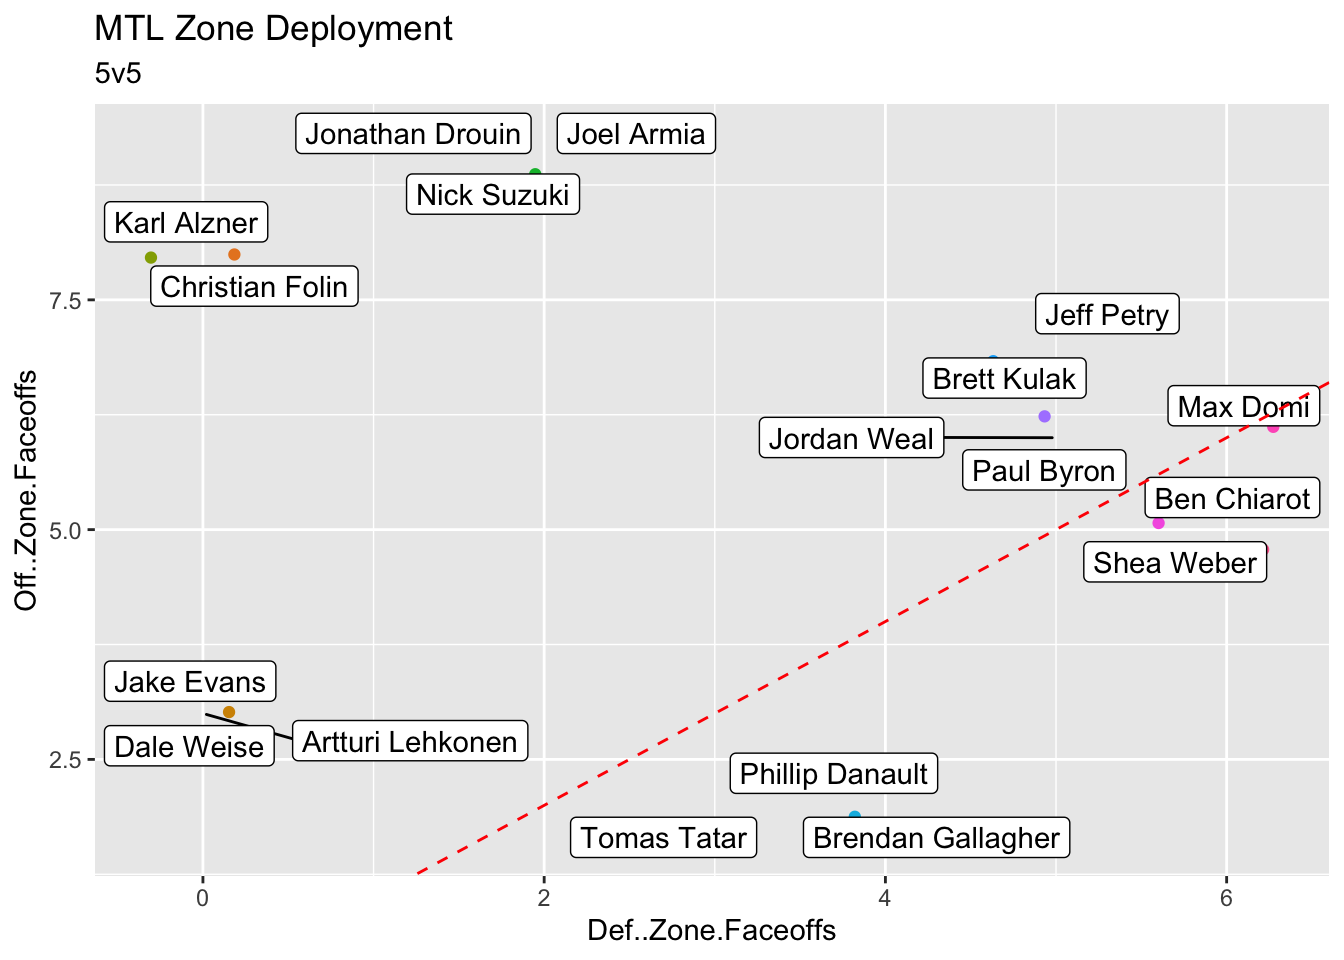
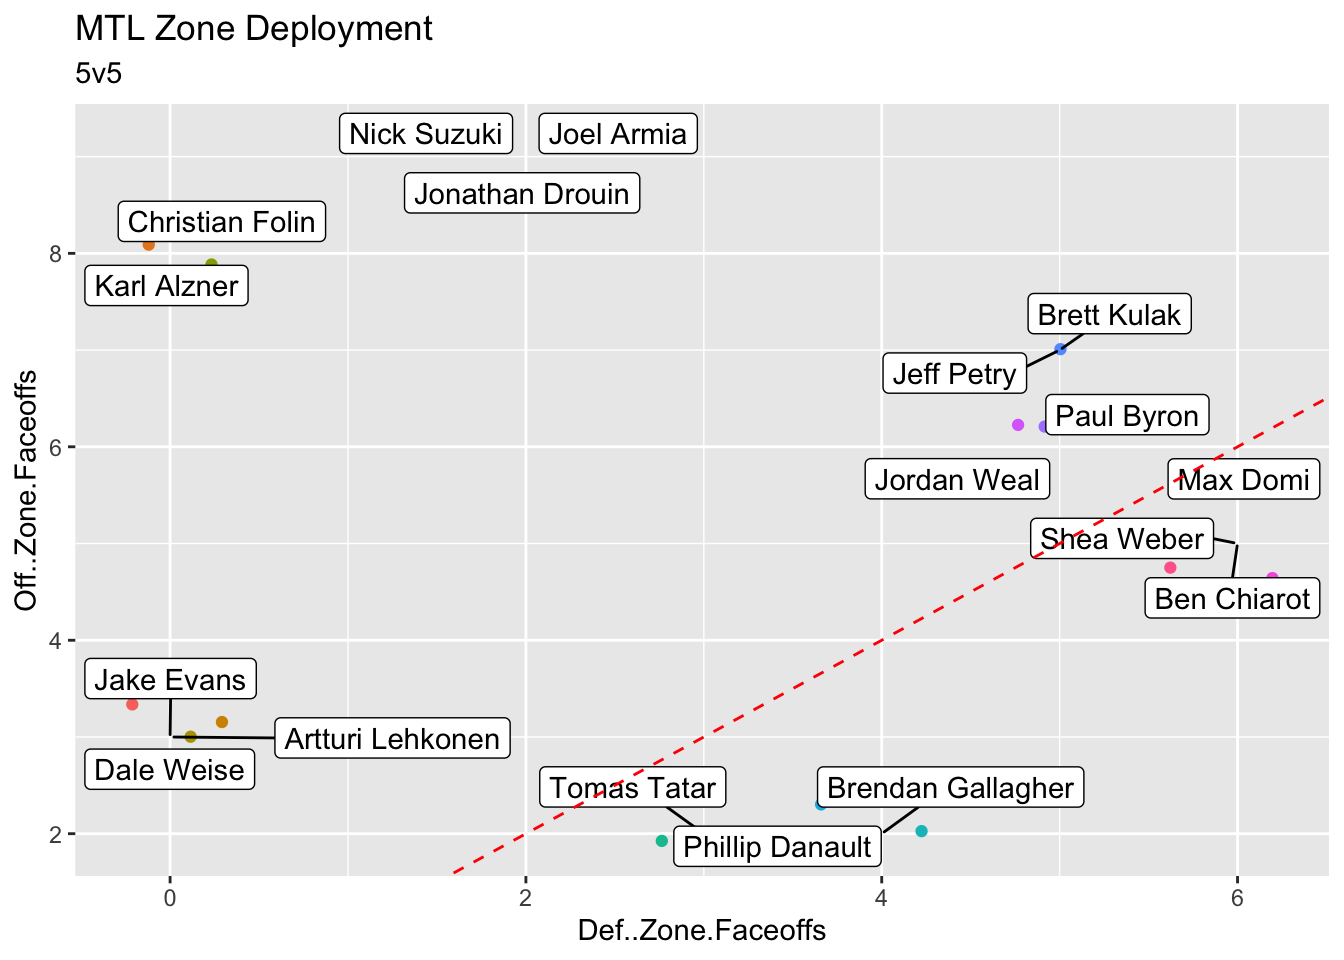
changed font type

diff --git a/post/2020-12-27-building-a-neural-network-with-tensorflow-and-keras.en.html b/post/2020-12-27-building-a-neural-network-with-tensorflow-and-keras.en.html
@@ -31,69 +31,115 @@ output: html_page
 <p>Here, a multi-label classification problem is shown, with the dataset provided by the UCI machine learning repository. This dataset in particular assigns an integer value indicating the quality of red wine, with each column as dependent variables (e.g., acidity, pH, etc.).</p>
 <p><strong>Step by step:</strong></p>
 <p>First we load the appropriate modules.</p>
+<blockquote>
 <p>import pandas as pd import numpy as np import tensorflow as tf from tensorflow.keras.models import Sequential from tensorflow.keras.layers import Dense from sklearn.model_selection import train_test_split from sklearn import preprocessing from sklearn.metrics import accuracy_score import matplotlib.pyplot as plt</p>
+</blockquote>
 <p>We load our red wine dataset and split the dataframe into its feature-set (i.e., the dependent variables) and our target labels.</p>
+<blockquote>
 <p>df = pd.read_csv('winequality-red.csv', sep=';') y = df.select_dtypes('int').values X = df.select_dtypes(exclude='int').values</p>
+</blockquote>
 <p>It is important to preprocess our features. This is especially important in cases where the values across different columns are hetereogenous in their value ranges (e.g., one feature ranges from 0-1 whereas another ranges from 300-500). It's also recommended not to feed into a neural network data that can take large values. The min-max scaler from sklearn normalizes the data such that every value is between 0 and 1.</p>
+<blockquote>
 <p>min_max_scaler = preprocessing.MinMaxScaler() X_scale = min_max_scaler.fit_transform(X)</p>
+</blockquote>
 <p>We now split our data into training and testing data. The testing data <strong>will not</strong> be seen by our model during the training phase and will only be used to evaluate our model accuracy after the training phase. It is vital that the model is tested using never-before-seen data.</p>
+<blockquote>
 <p>X_train, X_test, y_train, y_test = train_test_split(X_scale, y, test_size = 0.2, random_state = 4)</p>
+</blockquote>
 <p>The target labels are encoded. Usually, one-hot encoding is done on labels that are non-numeric values (e.g., strings) in order to associate a unique integer index with each unique label. This will return a vector whose size equals to the size of the number of unique labels.</p>
+<blockquote>
 <p>y_train_sequential = tf.keras.utils.to_categorical(y_train)</p>
+</blockquote>
 <p>We now build the network of three layers. The input and the middle layer will have 64 neurons with the rectified linear unit activation function. The first layer takes the input of shape (11,) since the feature axis in our input tensor (i.e., number of features) equals to 11. The output layer will use the softmax activation function to produce a probability distribution over the number of different output labels, where output[n] equals to the probability that the sample belongs to class n.</p>
+<blockquote>
 <p>model = Sequential([ Dense(64, activation='relu', input_shape(11,)), Dense(64, activation='relu'), Dense(y_train_categorical.shape[1], activation='softmax')])</p>
+</blockquote>
 <p>The model is now compiled using the parameters we've mentioned earlier - a measurement of how well our model is doing (i.e., accuracy), a function the model will use to measure its performance on training data (i.e., loss), and an optimizer used for backpropagation.</p>
+<blockquote>
 <p>model.compile(optimizer='rmsprop', loss='categorical_crossentropy', metrics=['accuracy'])</p>
+</blockquote>
 <p>We now train our model and store the results. Each iteration over the entire training data is called an epoch. This process will therefore iterate a thousand times.</p>
+<blockquote>
 <p>history = model.fit(X_train, y_train_categorical, batch_size=512, epochs=1000, validation_split=0.2)</p>
+</blockquote>
 <div class="figure">
 <img src="/post/2020-12-27-building-a-neural-network-with-tensorflow-and-keras.en_files/Screen%20Shot%202020-12-27%20at%207.52.07%20PM.png" />
 
 </div>
 <p>We plot the model loss and accuracy on the training and validation data with respect to the iterations.</p>
+<blockquote>
 <p>plt.style.use('fivethirtyeight) plt.plot(history.history['loss']) plt.plot(history.history['val_loss']) plt.title('Model loss') plt.xlabel('Epoch') plt.ylabel('Loss') plt.legend(['Train', 'Val'], loc='upper right') plt.show()</p>
+</blockquote>
 <div class="figure">
 <img src="/post/2020-12-27-building-a-neural-network-with-tensorflow-and-keras.en_files/Screen%20Shot%202020-12-27%20at%207.52.16%20PM.png" />
 
 </div>
+<blockquote>
 <p>plt.plot(history.history['accuracy']) plt.plot(history.history['val_accuracy']) plt.title('Model accuracy') plt.xlabel('Epoch') plt.ylabel('Accuracy') plt.legend(['Train', 'Val'], loc='upper right') plt.show()</p>
+</blockquote>
 <div class="figure">
 <img src="/post/2020-12-27-building-a-neural-network-with-tensorflow-and-keras.en_files/Screen%20Shot%202020-12-27%20at%207.52.24%20PM.png" />
 
 </div>
 <p>As you can see, the accuracy on validation data plateaus after a couple hundred epochs and lags behind the accuracy on the training data. This behaviour is as known as overfitting, where the model is unable to generalize to unknown data. In order to mitigate this behaviour, we can add dropout layers (where we essentially 'turn off' a select percentage of neurons in a layer) or add regularization factors (essentially penalties to overcome overfitting).</p>
 <p>Adding regularization factors:</p>
+<blockquote>
 <p>from tensorflow.keras import regularizers</p>
+</blockquote>
+<blockquote>
 <p>model = Sequential([ Dense(64, activation='relu', input_shape(11,), kernel_regularizer=regularizers.l2(0.001)), Dense(64, activation='relu', kernel_regularizer=regularizers.l2(0.001)), Dense(y_train_categorical.shape[1], activation='softmax')])</p>
+</blockquote>
+<blockquote>
 <p>model.compile(optimizer='rmsprop', loss='categorical_crossentropy', metrics=['accuracy'])</p>
+</blockquote>
+<blockquote>
 <p>history = model.fit(X_train, y_train_categorical, batch_size=512, epochs=1000, validation_split=0.2)</p>
+</blockquote>
+<blockquote>
 <p>plt.style.use('fivethirtyeight) plt.plot(history.history['loss']) plt.plot(history.history['val_loss']) plt.title('Model loss') plt.xlabel('Epoch') plt.ylabel('Loss') plt.legend(['Train', 'Val'], loc='upper right') plt.show()</p>
+</blockquote>
 <div class="figure">
 <img src="/post/2020-12-27-building-a-neural-network-with-tensorflow-and-keras.en_files/Screen%20Shot%202020-12-27%20at%208.04.02%20PM.png" />
 
 </div>
+<blockquote>
 <p>plt.plot(history.history['accuracy']) plt.plot(history.history['val_accuracy']) plt.title('Model accuracy') plt.xlabel('Epoch') plt.ylabel('Accuracy') plt.legend(['Train', 'Val'], loc='upper right') plt.show()</p>
+</blockquote>
 <div class="figure">
 <img src="/post/2020-12-27-building-a-neural-network-with-tensorflow-and-keras.en_files/Screen%20Shot%202020-12-27%20at%208.04.07%20PM.png" />
 
 </div>
 <p>Adding dropout:</p>
+<blockquote>
 <p>from tensorflow.keras.layers import Dropout</p>
+</blockquote>
+<blockquote>
 <p>model = Sequential([ Dense(64, activation='relu', input_shape(11,)), Dropout(0.5), Dense(64, activation='relu'), Dropout(0.5), Dense(y_train_categorical.shape[1], activation='softmax')])</p>
+</blockquote>
+<blockquote>
 <p>model.compile(optimizer='rmsprop', loss='categorical_crossentropy', metrics=['accuracy'])</p>
+</blockquote>
+<blockquote>
 <p>history = model.fit(X_train, y_train_categorical, batch_size=512, epochs=1000, validation_split=0.2)</p>
+</blockquote>
+<blockquote>
 <p>plt.style.use('fivethirtyeight) plt.plot(history.history['loss']) plt.plot(history.history['val_loss']) plt.title('Model loss') plt.xlabel('Epoch') plt.ylabel('Loss') plt.legend(['Train', 'Val'], loc='upper right') plt.show()</p>
+</blockquote>
 <div class="figure">
 <img src="/post/2020-12-27-building-a-neural-network-with-tensorflow-and-keras.en_files/Screen%20Shot%202020-12-27%20at%208.04.15%20PM.png" />
 
 </div>
+<blockquote>
 <p>plt.plot(history.history['accuracy']) plt.plot(history.history['val_accuracy']) plt.title('Model accuracy') plt.xlabel('Epoch') plt.ylabel('Accuracy') plt.legend(['Train', 'Val'], loc='upper right') plt.show()</p>
+</blockquote>
 <div class="figure">
 <img src="/post/2020-12-27-building-a-neural-network-with-tensorflow-and-keras.en_files/Screen%20Shot%202020-12-27%20at%208.04.20%20PM.png" />
 
 </div>
 <p>Finally, to evaluate the model accuracy on our testing data:</p>
+<blockquote>
 <p>results = model.evaluate(X_test, y_test_categorical)</p>
+</blockquote>
 <div class="figure">
 <img src="/post/2020-12-27-building-a-neural-network-with-tensorflow-and-keras.en_files/Screen%20Shot%202020-12-27%20at%208.04.46%20PM.png" />
 

diff --git a/post/2020-12-27-building-a-neural-network-with-tensorflow-and-keras/index.html b/post/2020-12-27-building-a-neural-network-with-tensorflow-and-keras/index.html
@@ -210,69 +210,115 @@
 <p>Here, a multi-label classification problem is shown, with the dataset provided by the UCI machine learning repository. This dataset in particular assigns an integer value indicating the quality of red wine, with each column as dependent variables (e.g., acidity, pH, etc.).</p>
 <p><strong>Step by step:</strong></p>
 <p>First we load the appropriate modules.</p>
+<blockquote>
 <p>import pandas as pd import numpy as np import tensorflow as tf from tensorflow.keras.models import Sequential from tensorflow.keras.layers import Dense from sklearn.model_selection import train_test_split from sklearn import preprocessing from sklearn.metrics import accuracy_score import matplotlib.pyplot as plt</p>
+</blockquote>
 <p>We load our red wine dataset and split the dataframe into its feature-set (i.e., the dependent variables) and our target labels.</p>
+<blockquote>
 <p>df = pd.read_csv('winequality-red.csv', sep=';') y = df.select_dtypes('int').values X = df.select_dtypes(exclude='int').values</p>
+</blockquote>
 <p>It is important to preprocess our features. This is especially important in cases where the values across different columns are hetereogenous in their value ranges (e.g., one feature ranges from 0-1 whereas another ranges from 300-500). It's also recommended not to feed into a neural network data that can take large values. The min-max scaler from sklearn normalizes the data such that every value is between 0 and 1.</p>
+<blockquote>
 <p>min_max_scaler = preprocessing.MinMaxScaler() X_scale = min_max_scaler.fit_transform(X)</p>
+</blockquote>
 <p>We now split our data into training and testing data. The testing data <strong>will not</strong> be seen by our model during the training phase and will only be used to evaluate our model accuracy after the training phase. It is vital that the model is tested using never-before-seen data.</p>
+<blockquote>
 <p>X_train, X_test, y_train, y_test = train_test_split(X_scale, y, test_size = 0.2, random_state = 4)</p>
+</blockquote>
 <p>The target labels are encoded. Usually, one-hot encoding is done on labels that are non-numeric values (e.g., strings) in order to associate a unique integer index with each unique label. This will return a vector whose size equals to the size of the number of unique labels.</p>
+<blockquote>
 <p>y_train_sequential = tf.keras.utils.to_categorical(y_train)</p>
+</blockquote>
 <p>We now build the network of three layers. The input and the middle layer will have 64 neurons with the rectified linear unit activation function. The first layer takes the input of shape (11,) since the feature axis in our input tensor (i.e., number of features) equals to 11. The output layer will use the softmax activation function to produce a probability distribution over the number of different output labels, where output[n] equals to the probability that the sample belongs to class n.</p>
+<blockquote>
 <p>model = Sequential([ Dense(64, activation='relu', input_shape(11,)), Dense(64, activation='relu'), Dense(y_train_categorical.shape[1], activation='softmax')])</p>
+</blockquote>
 <p>The model is now compiled using the parameters we've mentioned earlier - a measurement of how well our model is doing (i.e., accuracy), a function the model will use to measure its performance on training data (i.e., loss), and an optimizer used for backpropagation.</p>
+<blockquote>
 <p>model.compile(optimizer='rmsprop', loss='categorical_crossentropy', metrics=['accuracy'])</p>
+</blockquote>
 <p>We now train our model and store the results. Each iteration over the entire training data is called an epoch. This process will therefore iterate a thousand times.</p>
+<blockquote>
 <p>history = model.fit(X_train, y_train_categorical, batch_size=512, epochs=1000, validation_split=0.2)</p>
+</blockquote>
 <div class="figure">
 <img src="/post/2020-12-27-building-a-neural-network-with-tensorflow-and-keras.en_files/Screen%20Shot%202020-12-27%20at%207.52.07%20PM.png" />
 
 </div>
 <p>We plot the model loss and accuracy on the training and validation data with respect to the iterations.</p>
+<blockquote>
 <p>plt.style.use('fivethirtyeight) plt.plot(history.history['loss']) plt.plot(history.history['val_loss']) plt.title('Model loss') plt.xlabel('Epoch') plt.ylabel('Loss') plt.legend(['Train', 'Val'], loc='upper right') plt.show()</p>
+</blockquote>
 <div class="figure">
 <img src="/post/2020-12-27-building-a-neural-network-with-tensorflow-and-keras.en_files/Screen%20Shot%202020-12-27%20at%207.52.16%20PM.png" />
 
 </div>
+<blockquote>
 <p>plt.plot(history.history['accuracy']) plt.plot(history.history['val_accuracy']) plt.title('Model accuracy') plt.xlabel('Epoch') plt.ylabel('Accuracy') plt.legend(['Train', 'Val'], loc='upper right') plt.show()</p>
+</blockquote>
 <div class="figure">
 <img src="/post/2020-12-27-building-a-neural-network-with-tensorflow-and-keras.en_files/Screen%20Shot%202020-12-27%20at%207.52.24%20PM.png" />
 
 </div>
 <p>As you can see, the accuracy on validation data plateaus after a couple hundred epochs and lags behind the accuracy on the training data. This behaviour is as known as overfitting, where the model is unable to generalize to unknown data. In order to mitigate this behaviour, we can add dropout layers (where we essentially 'turn off' a select percentage of neurons in a layer) or add regularization factors (essentially penalties to overcome overfitting).</p>
 <p>Adding regularization factors:</p>
+<blockquote>
 <p>from tensorflow.keras import regularizers</p>
+</blockquote>
+<blockquote>
 <p>model = Sequential([ Dense(64, activation='relu', input_shape(11,), kernel_regularizer=regularizers.l2(0.001)), Dense(64, activation='relu', kernel_regularizer=regularizers.l2(0.001)), Dense(y_train_categorical.shape[1], activation='softmax')])</p>
+</blockquote>
+<blockquote>
 <p>model.compile(optimizer='rmsprop', loss='categorical_crossentropy', metrics=['accuracy'])</p>
+</blockquote>
+<blockquote>
 <p>history = model.fit(X_train, y_train_categorical, batch_size=512, epochs=1000, validation_split=0.2)</p>
+</blockquote>
+<blockquote>
 <p>plt.style.use('fivethirtyeight) plt.plot(history.history['loss']) plt.plot(history.history['val_loss']) plt.title('Model loss') plt.xlabel('Epoch') plt.ylabel('Loss') plt.legend(['Train', 'Val'], loc='upper right') plt.show()</p>
+</blockquote>
 <div class="figure">
 <img src="/post/2020-12-27-building-a-neural-network-with-tensorflow-and-keras.en_files/Screen%20Shot%202020-12-27%20at%208.04.02%20PM.png" />
 
 </div>
+<blockquote>
 <p>plt.plot(history.history['accuracy']) plt.plot(history.history['val_accuracy']) plt.title('Model accuracy') plt.xlabel('Epoch') plt.ylabel('Accuracy') plt.legend(['Train', 'Val'], loc='upper right') plt.show()</p>
+</blockquote>
 <div class="figure">
 <img src="/post/2020-12-27-building-a-neural-network-with-tensorflow-and-keras.en_files/Screen%20Shot%202020-12-27%20at%208.04.07%20PM.png" />
 
 </div>
 <p>Adding dropout:</p>
+<blockquote>
 <p>from tensorflow.keras.layers import Dropout</p>
+</blockquote>
+<blockquote>
 <p>model = Sequential([ Dense(64, activation='relu', input_shape(11,)), Dropout(0.5), Dense(64, activation='relu'), Dropout(0.5), Dense(y_train_categorical.shape[1], activation='softmax')])</p>
+</blockquote>
+<blockquote>
 <p>model.compile(optimizer='rmsprop', loss='categorical_crossentropy', metrics=['accuracy'])</p>
+</blockquote>
+<blockquote>
 <p>history = model.fit(X_train, y_train_categorical, batch_size=512, epochs=1000, validation_split=0.2)</p>
+</blockquote>
+<blockquote>
 <p>plt.style.use('fivethirtyeight) plt.plot(history.history['loss']) plt.plot(history.history['val_loss']) plt.title('Model loss') plt.xlabel('Epoch') plt.ylabel('Loss') plt.legend(['Train', 'Val'], loc='upper right') plt.show()</p>
+</blockquote>
 <div class="figure">
 <img src="/post/2020-12-27-building-a-neural-network-with-tensorflow-and-keras.en_files/Screen%20Shot%202020-12-27%20at%208.04.15%20PM.png" />
 
 </div>
+<blockquote>
 <p>plt.plot(history.history['accuracy']) plt.plot(history.history['val_accuracy']) plt.title('Model accuracy') plt.xlabel('Epoch') plt.ylabel('Accuracy') plt.legend(['Train', 'Val'], loc='upper right') plt.show()</p>
+</blockquote>
 <div class="figure">
 <img src="/post/2020-12-27-building-a-neural-network-with-tensorflow-and-keras.en_files/Screen%20Shot%202020-12-27%20at%208.04.20%20PM.png" />
 
 </div>
 <p>Finally, to evaluate the model accuracy on our testing data:</p>
+<blockquote>
 <p>results = model.evaluate(X_test, y_test_categorical)</p>
+</blockquote>
 <div class="figure">
 <img src="/post/2020-12-27-building-a-neural-network-with-tensorflow-and-keras.en_files/Screen%20Shot%202020-12-27%20at%208.04.46%20PM.png" />
 
